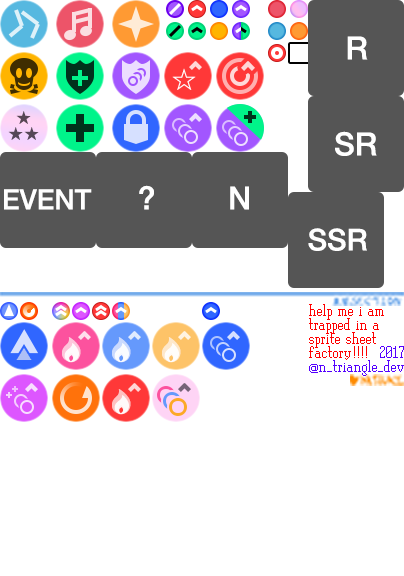
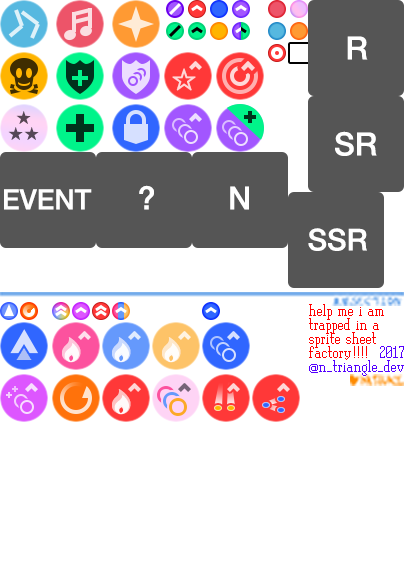
add chiyo/chitose's psb variants

Changed region(s): [[0.505, 0.625, 0.7426, 0.75], [0.4158, 0.125, 0.4752, 0.1562]]

diff --git a/static/css/main.less b/static/css/main.less
@@ -133,7 +133,7 @@ footer {
 
 .icon {
   display:inline-block;
-  background-image:url(../img/smarkers.png?v5);
+  background-image:url(../img/smarkers.png?v6);
   .stitches-marker(-48px, -76px, 48px, 48px);
 
   &.icon_event {
@@ -211,6 +211,12 @@ footer {
   &.s_tuning {
     .stitches-marker(-101px, -161px, 24px, 24px);
   }
+  &.s_psbvarianta {
+    .stitches-marker(-101px, -187px, 24px, 24px);
+  }
+  &.s_psbvariantb {
+    .stitches-marker(-127px, -187px, 24px, 24px);
+  }
   &.s_unknown {
     .stitches-marker(0px, -143px, 24px, 1px);
   }
@@ -223,8 +229,8 @@ footer {
     &.m_da, &.m_vo, &.s_pl, &.s_cprot, &.s_combobonus, &.s_scorebonus,
     &.s_heal, &.s_life, &.s_overload, &.m_ba, &.s_allround, &.s_focus,
     &.s_perfelegant, &.s_sb, &.s_cbonus_based_life, &.s_mimic, &.s_synergy,
-    &.s_tuning {
-      background-image:url(../img/smarkers@2x.png?v5);
+    &.s_tuning, &.s_psbvarianta, &.s_psbvariantb {
+      background-image:url(../img/smarkers@2x.png?v6);
       background-size: 202px 288px;
       border-radius:0px;
     }
@@ -915,7 +921,7 @@ span.var {
     left:1px; top:1px;
     display:block;
     width:9px; height:9px;
-    background: url("../img/smarkers.png?v5") -115px -26px no-repeat;
+    background: url("../img/smarkers.png?v6") -115px -26px no-repeat;
 
     content:"";
   }
@@ -941,7 +947,7 @@ span.var {
     left:1px; top:10px;
     display:block;
     width:9px; height:9px;
-    background: url("../img/smarkers.png?v5") -145px -22px no-repeat;
+    background: url("../img/smarkers.png?v6") -145px -22px no-repeat;
 
     content:"";
   }
@@ -994,6 +1000,12 @@ span.var {
   &.ms_tuning::after {
     background-position: -101px -151px;
   }
+  &.ms_psbvarianta::after {
+    background-position: -94px 0;
+  }
+  &.ms_psbvariantb::after {
+    background-position: -94px 0;
+  }
   &.ms_unknown::after {
     background-position: -145px -22px;
   }
@@ -1001,7 +1013,7 @@ span.var {
       only screen and (-o-min-device-pixel-ratio: 13/10),
       only screen and (min-resolution: 120dpi) {
     &::after, &::before {
-      background-image:url("../img/smarkers@2x.png?v5")!important;
+      background-image:url("../img/smarkers@2x.png?v6")!important;
       background-size:202px 288px!important;
     }
   }

diff --git a/static/css/main.css b/static/css/main.css
@@ -79,7 +79,7 @@ footer {
 /* chara_partial */
 .icon {
   display: inline-block;
-  background-image: url(../img/smarkers.png?v5);
+  background-image: url(../img/smarkers.png?v6);
   background-position: -48px -76px;
   width: 48px;
   height: 48px;
@@ -209,6 +209,16 @@ footer {
   width: 24px;
   height: 24px;
 }
+.icon.s_psbvarianta {
+  background-position: -101px -187px;
+  width: 24px;
+  height: 24px;
+}
+.icon.s_psbvariantb {
+  background-position: -127px -187px;
+  width: 24px;
+  height: 24px;
+}
 .icon.s_unknown {
   background-position: 0px -143px;
   width: 24px;
@@ -241,8 +251,10 @@ footer {
   .icon.s_cbonus_based_life,
   .icon.s_mimic,
   .icon.s_synergy,
-  .icon.s_tuning {
-    background-image: url(../img/smarkers@2x.png?v5);
+  .icon.s_tuning,
+  .icon.s_psbvarianta,
+  .icon.s_psbvariantb {
+    background-image: url(../img/smarkers@2x.png?v6);
     background-size: 202px 288px;
     border-radius: 0px;
   }
@@ -949,7 +961,7 @@ span.var {
   display: block;
   width: 9px;
   height: 9px;
-  background: url("../img/smarkers.png?v5") -115px -26px no-repeat;
+  background: url("../img/smarkers.png?v6") -115px -26px no-repeat;
   content: "";
 }
 .icon.msprites.mm_vi::before {
@@ -971,7 +983,7 @@ span.var {
   display: block;
   width: 9px;
   height: 9px;
-  background: url("../img/smarkers.png?v5") -145px -22px no-repeat;
+  background: url("../img/smarkers.png?v6") -145px -22px no-repeat;
   content: "";
 }
 .icon.msprites.ms_pl::after {
@@ -1022,13 +1034,19 @@ span.var {
 .icon.msprites.ms_tuning::after {
   background-position: -101px -151px;
 }
+.icon.msprites.ms_psbvarianta::after {
+  background-position: -94px 0;
+}
+.icon.msprites.ms_psbvariantb::after {
+  background-position: -94px 0;
+}
 .icon.msprites.ms_unknown::after {
   background-position: -145px -22px;
 }
 @media only screen and (-webkit-min-device-pixel-ratio: 1.3), only screen and (-o-min-device-pixel-ratio: 13/10), only screen and (min-resolution: 120dpi) {
   .icon.msprites::after,
   .icon.msprites::before {
-    background-image: url("../img/smarkers@2x.png?v5") !important;
+    background-image: url("../img/smarkers@2x.png?v6") !important;
     background-size: 202px 288px!important;
   }
 }

diff --git a/starlight/en.py b/starlight/en.py
@@ -69,11 +69,13 @@ SKILL_DESCRIPTIONS = {
     25: """that you will gain an extra combo bonus based on your current health""",
     26: """that with all three types of idols on the team, you will gain an extra <span class="let">{2}</span>% combo bonus, and Perfect notes will receive a <span class="let">{0}</span>% score bonus plus restore <span class="let">{3}</span> HP,""",
     27: """that Perfect notes will receive a <span class="let">{0}</span>% score bonus, and you will gain an extra <span class="let">{2}</span>% combo bonus""",
+    28: """that Perfect notes will receive a <span class="let">{0}</span>% score bonus, and hold notes a <span class="let">{2}</span>% score bonus""",
+    29: """that Perfect notes will receive a <span class="let">{0}</span>% score bonus, and flick notes a <span class="let">{2}</span>% score bonus""",
     31: """that you will gain an extra <span class="let">{0}</span>% combo bonus, and Nice/Great notes will become Perfect notes""",
 }
 
-SKILL_TYPES_WITH_PERCENTAGE_EFF_VAL1 = [1, 2, 3, 4, 14, 15, 21, 22, 23, 24, 26, 27, 31]
-SKILL_TYPES_WITH_PERCENTAGE_EFF_VAL2 = [21, 22, 23, 26, 27]
+SKILL_TYPES_WITH_PERCENTAGE_EFF_VAL1 = [1, 2, 3, 4, 14, 15, 21, 22, 23, 24, 26, 27, 28, 29, 31]
+SKILL_TYPES_WITH_PERCENTAGE_EFF_VAL2 = [21, 22, 23, 26, 27, 28, 29]
 
 REMOVE_HTML = re.compile(r"</?span[^>]*>")
 

diff --git a/enums.py b/enums.py
@@ -67,6 +67,8 @@ skill_type = enum([
     25, "Life Sparkle",
     26, "Tricolor Synergy",
     27, "Coordinate",
+    28, "Perfect Score Bonus",
+    29, "Perfect Score Bonus",
     31, "Tuning"
 ])
 
@@ -174,6 +176,8 @@ skill_class = enum([
     25, "s_cbonus_based_life",
     26, "s_synergy",
     27, "s_focus s_focus_flat",
+    28, "s_psbvarianta",
+    29, "s_psbvariantb",
     31, "s_tuning"
 ])
 
